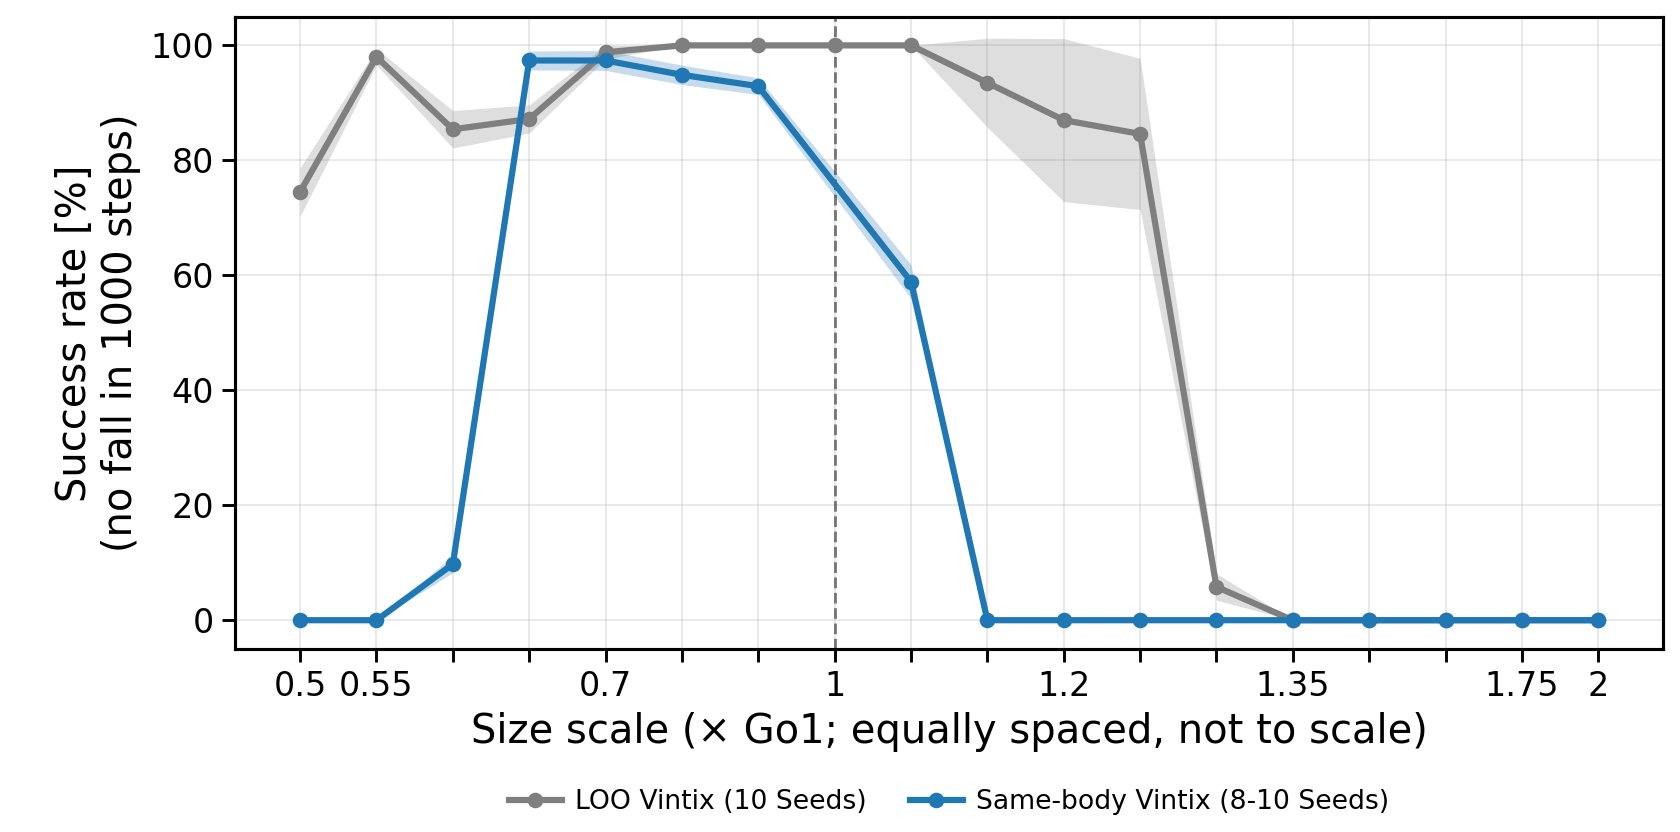
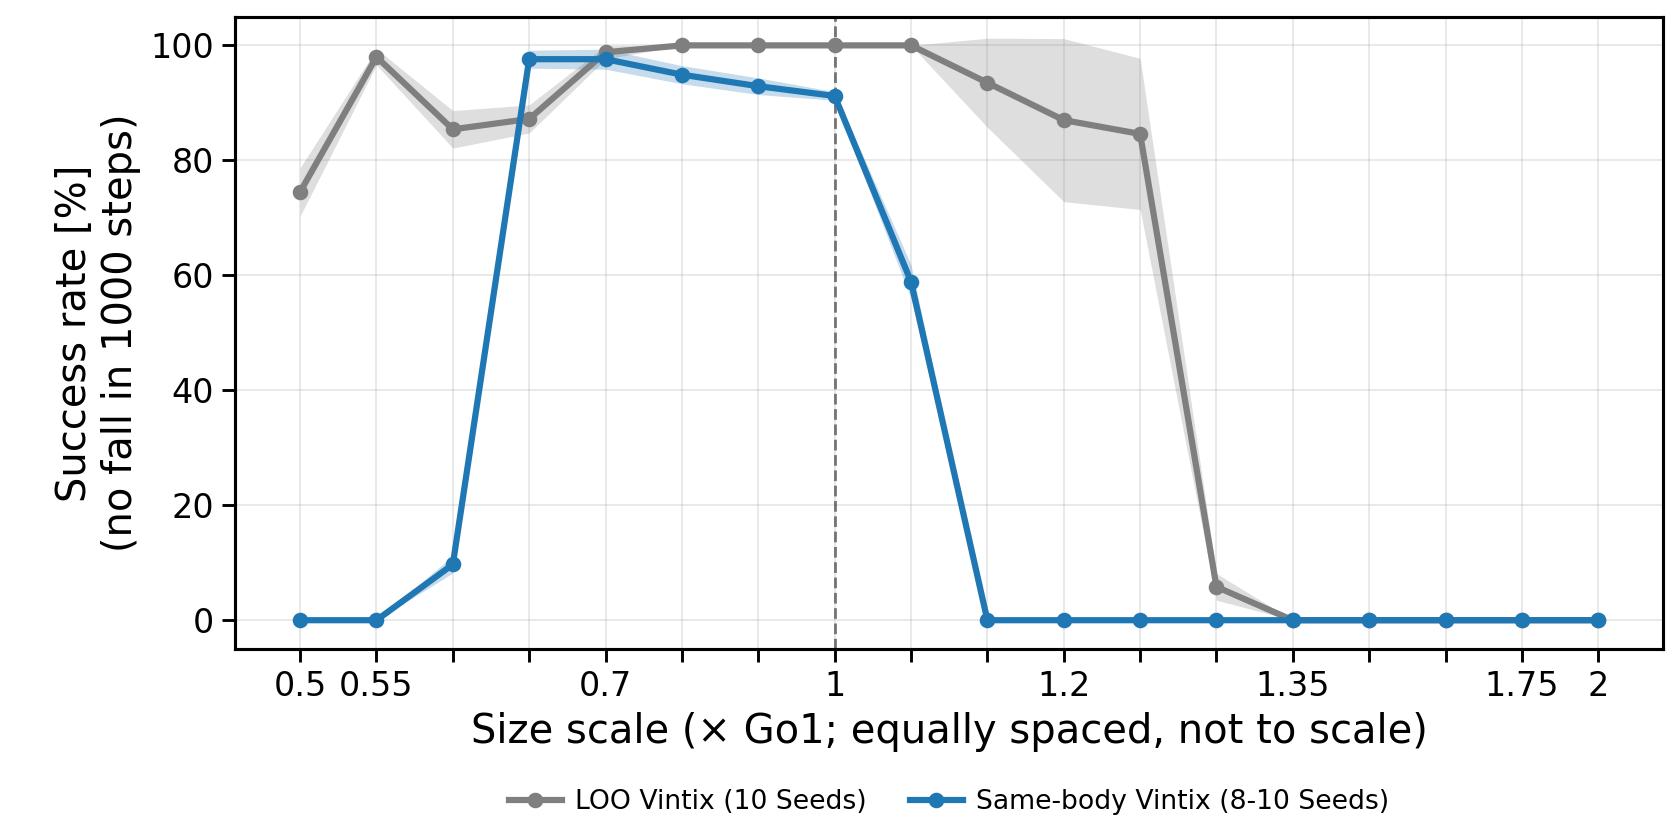
Fix #21 waiter for early-stop skips and record #18 Go1 3-axis finals.

Changed region(s): [[0.4333, 0.0938, 0.5571, 0.3438], [0.3095, 0.0625, 0.4024, 0.0938]]

diff --git a/vintix_go2/same_body_scale_zeroshot/make_interim_size_density_figure.py b/vintix_go2/same_body_scale_zeroshot/make_interim_size_density_figure.py
@@ -1,0 +1,174 @@
+#!/usr/bin/env python3
+"""Final Go1 size_density figure: same-body Vintix vs leave-one-out (#18 vs #10).
+
+Nominal 1.0× for same-body is taken from the mass-axis 1.0× runs (shared body).
+
+  cd /workspace/vintix_go2
+  python same_body_scale_zeroshot/make_interim_size_density_figure.py
+"""
+from __future__ import annotations
+
+import csv
+import json
+from collections import defaultdict
+from datetime import datetime, timezone
+from pathlib import Path
+
+import numpy as np
+
+EXP_DIR = Path(__file__).resolve().parent
+SAME_ROOT = EXP_DIR / "results" / "go1" / "vintix" / "size_density"
+MASS_ROOT = EXP_DIR / "results" / "go1" / "vintix" / "mass"
+LOO_CSV = EXP_DIR.parent / "robot_body_scale_zeroshot" / "results.csv"
+FIG_DIR = EXP_DIR / "figures"
+OUTPUT_STEM = "go1_10envs_10episodes"
+
+
+def collect_same_body() -> dict[float, list[float]]:
+    by_scale: dict[float, list[float]] = defaultdict(list)
+    for meta in SAME_ROOT.glob("*_seed*/point.json"):
+        parent = meta.parent.name
+        scale_s, _seed = parent.rsplit("_seed", 1)
+        scale = float(scale_s.replace("s", "").replace("p", "."))
+        metrics = meta.parent / f"{OUTPUT_STEM}_metrics.json"
+        if not metrics.exists():
+            continue
+        cr = float(json.load(open(metrics))["completion_rate"]) * 100.0
+        by_scale[scale].append(cr)
+    # Inject nominal 1.0 from mass axis (same body, not re-run under size_density).
+    if 1.0 not in by_scale:
+        for meta in MASS_ROOT.glob("s1p000_seed*/point.json"):
+            metrics = meta.parent / f"{OUTPUT_STEM}_metrics.json"
+            if not metrics.exists():
+                continue
+            by_scale[1.0].append(float(json.load(open(metrics))["completion_rate"]) * 100.0)
+    return dict(by_scale)
+
+
+def collect_loo() -> dict[float, tuple[float, float, int]]:
+    out: dict[float, tuple[float, float, int]] = {}
+    with open(LOO_CSV) as f:
+        for row in csv.DictReader(f):
+            if row["robot"] != "go1" or row["policy"] != "vintix" or row["axis"] != "size_density":
+                continue
+            scale = float(row["scale"])
+            out[scale] = (
+                float(row["completion_mean"]),
+                float(row["completion_std"]),
+                int(row["n_seeds"]),
+            )
+    return out
+
+
+def tick_label_indices(n: int, base: int, step: int = 2) -> list[int]:
+    labeled = {0, n - 1, base}
+    for i in range(base - step, -1, -step):
+        labeled.add(i)
+    for i in range(base + step, n, step):
+        labeled.add(i)
+    return sorted(labeled)
+
+
+def main() -> Path:
+    import matplotlib
+
+    matplotlib.use("Agg")
+    import matplotlib.pyplot as plt
+
+    same = collect_same_body()
+    loo = collect_loo()
+    scales = sorted(set(same) | set(loo) | {1.0})
+    pos = {x: i for i, x in enumerate(scales)}
+    base = scales.index(1.0) if 1.0 in scales else 0
+    day = datetime.now(timezone.utc).strftime("%Y%m%d")
+    out = FIG_DIR / f"go1_size_density_samebody_vs_loo_completion_mean_std_{day}.png"
+
+    with plt.rc_context(
+        {
+            "font.size": 16,
+            "axes.labelsize": 18,
+            "xtick.labelsize": 15,
+            "ytick.labelsize": 15,
+            "legend.fontsize": 12,
+            "axes.linewidth": 1.4,
+        }
+    ):
+        fig, ax = plt.subplots(1, 1, figsize=(10.5, 5.2))
+
+        xs = [x for x in scales if x in loo]
+        xp = np.array([pos[x] for x in xs], dtype=float)
+        mean = np.array([loo[x][0] for x in xs])
+        std = np.array([loo[x][1] for x in xs])
+        n0, n1 = min(loo[x][2] for x in xs), max(loo[x][2] for x in xs)
+        seeds = f"{n0}-{n1} Seeds" if n0 != n1 else f"{n0} Seeds"
+        ax.plot(xp, mean, "o-", color="#7f7f7f", label=f"LOO Vintix ({seeds})", lw=2.8, ms=6, zorder=3)
+        ax.fill_between(xp, mean - std, mean + std, color="#7f7f7f", alpha=0.25, lw=0, zorder=2)
+
+        xs = [x for x in scales if x in same]
+        xp = np.array([pos[x] for x in xs], dtype=float)
+        vals = [np.array(same[x]) for x in xs]
+        mean = np.array([v.mean() for v in vals])
+        std = np.array([v.std(ddof=0) for v in vals])
+        n0, n1 = min(len(v) for v in vals), max(len(v) for v in vals)
+        seeds = f"{n0}-{n1} Seeds" if n0 != n1 else f"{n0} Seeds"
+        ax.plot(xp, mean, "o-", color="#1f77b4", label=f"Same-body Vintix ({seeds})", lw=2.8, ms=6, zorder=4)
+        ax.fill_between(xp, mean - std, mean + std, color="#1f77b4", alpha=0.25, lw=0, zorder=2)
+
+        if 1.0 in pos:
+            ax.axvline(pos[1.0], color="black", lw=1.3, ls="--", alpha=0.5)
+        ax.set_ylim(-5, 105)
+        ax.set_ylabel("Success rate [%]\n(no fall in 1000 steps)")
+        ax.grid(True, alpha=0.3)
+        ax.tick_params(width=1.3, length=6)
+        tick_idx = set(tick_label_indices(len(scales), base, step=2))
+        ax.set_xticks(range(len(scales)))
+        ax.set_xticklabels([f"{scales[i]:g}" if i in tick_idx else "" for i in range(len(scales))])
+        ax.set_xlabel("Size+mass scale (density fixed; × Go1; equally spaced, not to scale)")
+        fig.subplots_adjust(left=0.14, right=0.99, top=0.98, bottom=0.22)
+        handles, labels = ax.get_legend_handles_labels()
+        axes_mid = 0.5 * (0.14 + 0.99)
+        fig.legend(
+            handles,
+            labels,
+            loc="upper center",
+            ncol=2,
+            frameon=False,
+            bbox_to_anchor=(axes_mid, 0.08),
+            handlelength=2.0,
+            columnspacing=1.6,
+            handletextpad=0.5,
+        )
+        FIG_DIR.mkdir(parents=True, exist_ok=True)
+        fig.savefig(out, dpi=160)
+        plt.close(fig)
+
+    table = FIG_DIR / f"go1_size_density_samebody_vs_loo_table_{day}.md"
+    lines = [
+        f"<!-- final #18 size_density, {day} UTC -->",
+        "",
+        "| scale | same-body mean% (n) | same-body std% | LOO mean% (n) | LOO std% |",
+        "|---:|---:|---:|---:|---:|",
+    ]
+    for x in scales:
+        if x in same:
+            v = np.array(same[x])
+            sb = f"{v.mean():.1f} ({len(v)})"
+            sb_std = f"{v.std(ddof=0):.1f}"
+        else:
+            sb, sb_std = "—", "—"
+        if x in loo:
+            m, s, n = loo[x]
+            lo = f"{m:.1f} ({n})"
+            lo_std = f"{s:.1f}"
+        else:
+            lo, lo_std = "—", "—"
+        label = f"**{x:g}**" if x in (0.8, 0.9, 1.0, 1.1) else f"{x:g}"
+        lines.append(f"| {label} | {sb} | {sb_std} | {lo} | {lo_std} |")
+    table.write_text("\n".join(lines) + "\n")
+    print(out)
+    print(table)
+    return out
+
+
+if __name__ == "__main__":
+    main()

diff --git a/vintix_go2/same_body_scale_zeroshot/make_interim_size_figure.py b/vintix_go2/same_body_scale_zeroshot/make_interim_size_figure.py
@@ -16,6 +16,7 @@ import numpy as np
 
 EXP_DIR = Path(__file__).resolve().parent
 SAME_ROOT = EXP_DIR / "results" / "go1" / "vintix" / "size"
+MASS_ROOT = EXP_DIR / "results" / "go1" / "vintix" / "mass"
 LOO_CSV = EXP_DIR.parent / "robot_body_scale_zeroshot" / "results.csv"
 FIG_DIR = EXP_DIR / "figures"
 OUTPUT_STEM = "go1_10envs_10episodes"
@@ -32,6 +33,13 @@ def collect_same_body() -> dict[float, list[float]]:
             continue
         cr = float(json.load(open(metrics))["completion_rate"]) * 100.0
         by_scale[scale].append(cr)
+    # Nominal 1.0 lives under mass axis for same-body.
+    if 1.0 not in by_scale:
+        for meta in MASS_ROOT.glob("s1p000_seed*/point.json"):
+            metrics = meta.parent / f"{OUTPUT_STEM}_metrics.json"
+            if not metrics.exists():
+                continue
+            by_scale[1.0].append(float(json.load(open(metrics))["completion_rate"]) * 100.0)
     return dict(by_scale)
 
 

diff --git a/vintix_go2/dr_narrow_vintix_bodyscale/README.md b/vintix_go2/dr_narrow_vintix_bodyscale/README.md
@@ -1,0 +1,74 @@
+# DR narrow 履歴で学習した Vintix の Go1 体スケール評価
+
+Issue: [#21](https://github.com/ishiishiishii/vintix/issues/21)  
+ブランチ: `exp/dr-narrow-vintix-bodyscale`  
+Notion: [DR narrow履歴Vintixの体スケール限界](https://app.notion.com/p/DR-narrow-Vintix-41cd65e6123f81d3b85ddb5c838740d0)（`41cd65e6-123f-81d3-b85d-db5c838740d0`）
+
+## 目的・問い
+
+すでに得られた **narrow 100 体**の PPO 学習履歴のうち成功体だけを使い、Vintix を新規学習したとき、  
+Go1 の質量／大きさ／密度一定（3 軸）でどこまで歩けるか。学習に使った質量・脚長の範囲を数直線に示し、崖と対応付ける。
+
+## 仮説
+
+形態 DR 由来の多様な履歴は、同体のみ（#18）より体スケール崖を外側へ押し、leave-one-out（#10）とも異なる境界を持つ。崖が学習分布の外に出るなら範囲拡張が次、分布の内で落ちるなら表現・正規化の問題が疑わしい。
+
+## 文献調査（実装前・5本以上）
+
+| 論文 | 変える量 | 指標 | 正規化 | 本実験への採否 |
+|------|----------|------|--------|----------------|
+| GenLoco (CoRL 2022, arXiv:2209.05309) | 形態テンプレの α・リンク寸法・質量・摩擦・PD 等をエピソードごとに乱択 | 速度・実機ゼロショット | 形態条件なしの単一方策 | **採用**: narrow プロファイルの出典。成功履歴の多様性が汎化の前提 |
+| ManyQuadrupeds (arXiv:2310.10486) | 2–200 kg・身長・DoF の広い多体 | 速度・sim2real | CPG+Pattern Formation | **参考**: 広い質量範囲の単一方策。本実験は AD/Transformer |
+| MorFiC (arXiv:2603.14554) | 単一ソース＋形態 DR → 他形態ゼロショット | 速度・最長走行 | critic 側形態 FiLM | **参考**: DR→ゼロショットの問い。本実験は形態条件なし AD |
+| Algorithm Distillation (ICLR 2023) | 多タスク学習履歴の系列蒸留 | return / in-context 改善 | タスク横断 | **採用**: 履歴を Transformer に蒸留する枠組み |
+| Vintix (ICML 2025, arXiv:2501.19400) | クロスドメイン AD で行動モデル | in-context 適応 | タスク／グループ | **採用**: 実装・学習ハイパーの基準（epochs/context/sparsity） |
+| McARL (arXiv:2505.18418) | 形態・制御パラメータを意識した汎化 | 多形態歩行 | 形態条件付き | **参考**: 形態条件の別解。本実験は条件なしで崖を測る |
+
+設計決定:
+
+- **データ**: narrow 成功体のみ（`reward_last ≥ 15` → 現状 65/100）。失敗体の崩れた履歴は入れない
+- **グループ名**: `quadruped_locomotion`（Go1 未知タスク追加時に共有デコーダへ載せるため）
+- **評価**: #18 と同じ Go1 3 軸格子・10 seeds。比較対象は同体 Vintix と leave-one-out
+- **数直線**: 学習体の質量 [kg]・脚長 [m] の範囲＋評価 Success rate の対応（物理量軸。倍率図は別）
+
+## 方法・設定
+
+| 項目 | 値 |
+|------|-----|
+| 履歴元 | `dr_robots_ppo_history/dr_narrow_genloco/generated/*/ppo_history` |
+| フィルタ | `outputs/dr_narrow_expert_rewards.csv` の reward_last ≥ 15 |
+| 学習 | `train.sh` → epochs=5, context=2048, sparsity=128, seed=5 |
+| モデル | `models/dr_narrow_success_5epochs/.../0004_epoch` |
+| 評価 | `eval_go1_pipeline.py`（#18 と同格子） |
+| 起動条件 | **#18 Go1 評価が終わってから**（`wait_and_run.sh`） |
+| レポート | `REPORT.md` ＋ Notion 同ページ。数直線は `figures/` |
+
+## 実行
+
+```bash
+cd /workspace/vintix_go2
+# #18 完了を待ってから学習→評価→レポート（推奨）
+setsid nohup bash dr_narrow_vintix_bodyscale/wait_and_run.sh \
+  > dr_narrow_vintix_bodyscale/logs/wait_and_run.out 2>&1 < /dev/null &
+
+# 個別
+python dr_narrow_vintix_bodyscale/build_dataset.py
+bash dr_narrow_vintix_bodyscale/train.sh
+python -u dr_narrow_vintix_bodyscale/eval_go1_pipeline.py
+python dr_narrow_vintix_bodyscale/make_numberline_report.py
+```
+
+## 実行ログ
+
+### 2026-11-18: セットアップ（#18 評価中のため学習は待機）
+
+- Issue #21・実験ディレクトリ・Notion ページを作成
+- `wait_and_run.sh` で Go1 同体 3 軸評価完了後に学習を開始するよう予約
+- データは既存 narrow 成功履歴を流用（新規 PPO 収集なし）
+
+### 2026-11-19 11:12（autopilot）: #18 完了検知修正 → 学習起動
+
+- **原因:** waiter が `done>=total` のみ見ており、early-stop の `skipped=54` を無視 → #18 完了後も永久待機
+- **修正:** `wait_and_run.sh` で `done+skipped >= total` に変更。stuck waiter を止めて再起動
+- **結果:** dataset 65 tasks 構築後、`train_vintix`（5 epochs）開始。親 PID 1056988 / train PID 1057017
+- **次:** 学習完了 → Go1 3 軸評価 → `make_numberline_report.py`

diff --git a/vintix_go2/same_body_scale_zeroshot/README.md b/vintix_go2/same_body_scale_zeroshot/README.md
@@ -104,3 +104,14 @@ python same_body_scale_zeroshot/eval_go1_pipeline.py --dry_run
 - **密度一定（暫定・8 seeds）:** 0.9× ~98% / 0.8×・1.1× は 0%（崖点）。seed8–9 が残り
 - **図:** `figures/go1_mass_samebody_vs_loo_completion_mean_std_20261119.png` / `figures/go1_size_samebody_vs_loo_completion_mean_std_20261119.png`
 - **次:** 残り 16 完走 → size_density 確定図 → Notion 上部確定 → #21 自動学習
+
+### 2026-11-19 11:12（autopilot change）: Go1 3軸評価完了・#21 学習起動
+
+- **実行内容:** #18 は `done=416 + skipped=54 = 470` で完了（early-stop）。#21 waiter が skipped 未計上で永久待機していたため `wait_and_run.sh` を修正して再起動 → dataset 65 tasks → `train_vintix` 開始（PID 親 1056988 / train 1057017）
+- **質量（同体・10 seeds・確定）:** 0.6–1.0× 高完走（1.0× **91.2±0.7%**）→ 1.1× **61.0±4.6%** → **1.15× 全 0%**。≤0.5× も全 0%
+- **大きさ（10 seeds・確定）:** 0.65–0.9× 高完走 → 1.1× **58.9±2.9%** → **1.15× 全 0%**。0.55× 以下 0%。LOO より崖が内側
+- **密度一定（10 seeds・確定）:** **0.9× 98.2±1.2%** のみ高完走。**0.8×・1.1× は全 0%**（LOO は 0.8× で 91.9%）。帯が最も狭い
+- **考察:** Go1 では「同体学習でスケール帯が広がる」仮説は 3 軸とも不支持。LOO の多様性優位。特に密度一定 0.8× の差が大きい
+- **図:** `figures/go1_{mass,size,size_density}_samebody_vs_loo_completion_mean_std_20261119.png`
+- **次:** #21 学習完了 → Go1 3 軸評価 → 数直線レポート。他台の同体評価は後続
+

diff --git a/vintix_go2/same_body_scale_zeroshot/figures/go1_size_samebody_vs_loo_table_20261119.md b/vintix_go2/same_body_scale_zeroshot/figures/go1_size_samebody_vs_loo_table_20261119.md
@@ -3,13 +3,13 @@
 | scale | same-body mean% (n) | same-body std% | LOO mean% (n) | LOO std% |
 |---:|---:|---:|---:|---:|
 | 0.5 | 0.0 (8) | 0.0 | 74.5 (10) | 4.2 |
-| **0.55** | 0.0 (8) | 0.0 | 98.0 (10) | 1.4 |
-| **0.6** | 9.8 (8) | 1.5 | 85.4 (10) | 3.3 |
-| **0.65** | 97.4 (8) | 1.7 | 87.2 (10) | 2.4 |
-| 0.7 | 97.4 (8) | 1.7 | 98.8 (10) | 1.2 |
-| 0.8 | 94.9 (8) | 1.7 | 100.0 (10) | 0.0 |
+| **0.55** | 0.0 (10) | 0.0 | 98.0 (10) | 1.4 |
+| **0.6** | 9.7 (10) | 1.5 | 85.4 (10) | 3.3 |
+| **0.65** | 97.6 (10) | 1.6 | 87.2 (10) | 2.4 |
+| 0.7 | 97.6 (10) | 1.7 | 98.8 (10) | 1.2 |
+| 0.8 | 94.9 (10) | 1.6 | 100.0 (10) | 0.0 |
 | 0.9 | 92.9 (10) | 1.4 | 100.0 (10) | 0.0 |
-| **1** | — | — | 100.0 (10) | 0.0 |
+| **1** | 91.2 (10) | 0.7 | 100.0 (10) | 0.0 |
 | **1.1** | 58.9 (10) | 2.9 | 100.0 (10) | 0.0 |
 | **1.15** | 0.0 (10) | 0.0 | 93.5 (10) | 7.8 |
 | 1.2 | 0.0 (8) | 0.0 | 87.0 (10) | 14.2 |

diff --git a/vintix_go2/same_body_scale_zeroshot/figures/go1_size_density_samebody_vs_loo_table_20261119.md b/vintix_go2/same_body_scale_zeroshot/figures/go1_size_density_samebody_vs_loo_table_20261119.md
@@ -1,0 +1,14 @@
+<!-- final #18 size_density, 20261119 UTC -->
+
+| scale | same-body mean% (n) | same-body std% | LOO mean% (n) | LOO std% |
+|---:|---:|---:|---:|---:|
+| 0.5 | 0.0 (8) | 0.0 | 0.0 (10) | 0.0 |
+| 0.6 | 0.0 (8) | 0.0 | 0.0 (10) | 0.0 |
+| 0.7 | 0.0 (8) | 0.0 | 0.2 (10) | 0.6 |
+| **0.8** | 0.0 (10) | 0.0 | 91.9 (10) | 3.2 |
+| **0.9** | 98.2 (10) | 1.2 | 95.7 (10) | 1.8 |
+| **1** | 91.2 (10) | 0.7 | 100.0 (10) | 0.0 |
+| **1.1** | 0.0 (10) | 0.0 | 0.0 (10) | 0.0 |
+| 1.2 | 0.0 (8) | 0.0 | 0.0 (10) | 0.0 |
+| 1.3 | 0.0 (8) | 0.0 | 0.0 (10) | 0.0 |
+| 1.5 | 0.0 (8) | 0.0 | 0.7 (10) | 0.8 |
